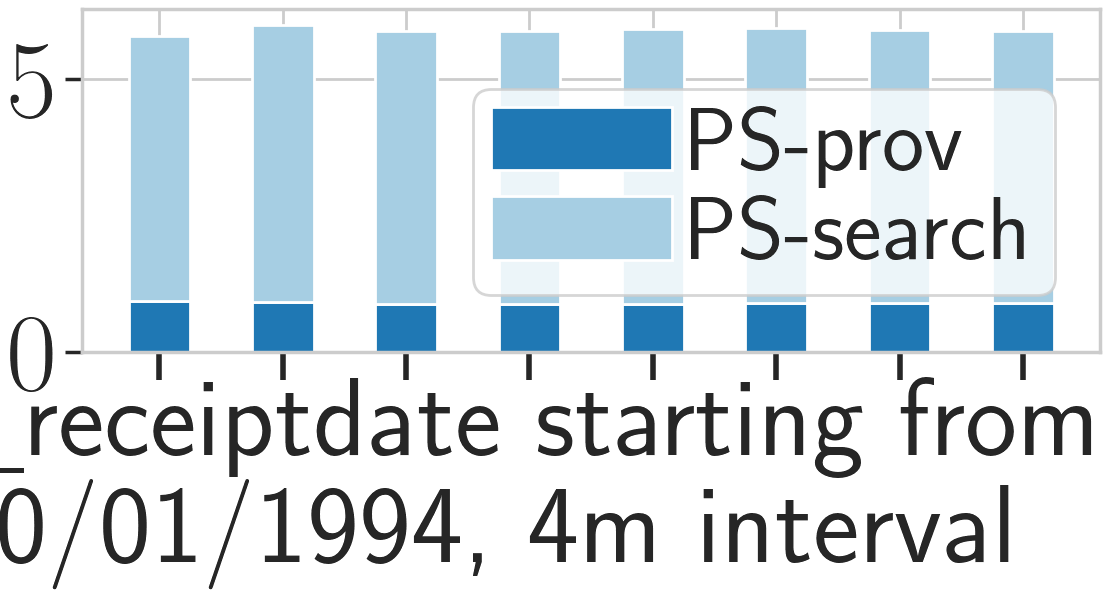
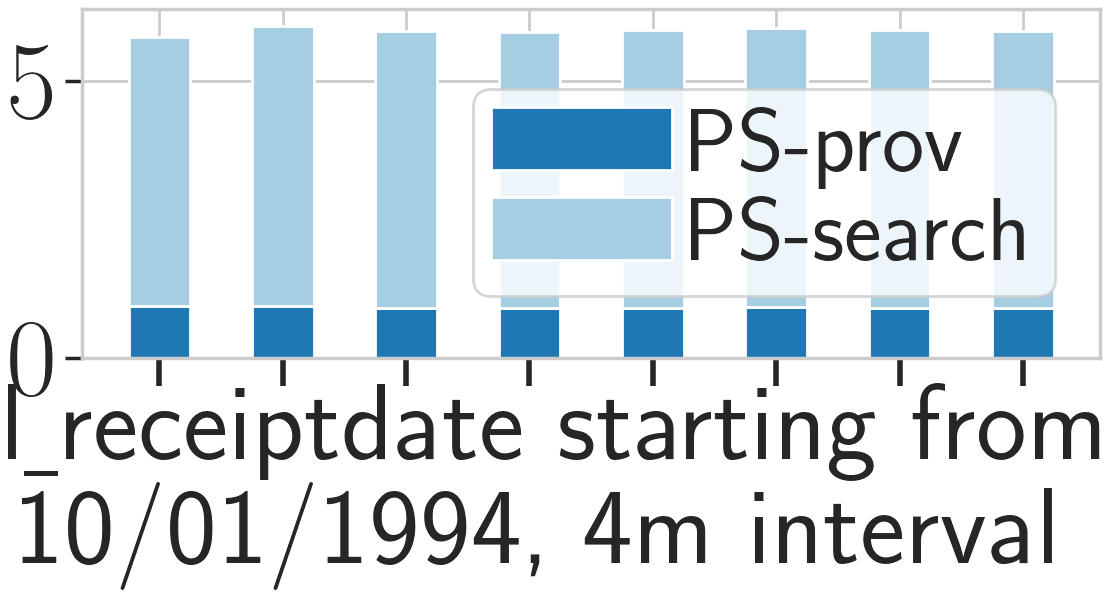
TPCH 100M fix figs

diff --git a/Experiment/TPCH/100M/query_selectivity2/q12_refine5/fig.py b/Experiment/TPCH/100M/query_selectivity2/q12_refine5/fig.py
@@ -85,8 +85,8 @@ def run(query, size, constraint):
     plt.xticks(np.arange(0, 8), x_list, rotation=0, fontsize=80, weight='bold')
     plt.yticks(fontsize=80, weight='bold')
 
-    plt.xlabel(r'l\underline{ }receiptdate starting from \\10/01/1994, 4m interval',
-               fontsize=80, weight='bold', labelpad=-5).set_position((0.44, -0.1))
+    plt.xlabel(r'l\underline{ }receiptdate starting from \\$~~$10/01/1994, 4m interval',
+               fontsize=78, weight='bold', labelpad=-5).set_position((0.47, -0.1))
 
     plt.tight_layout()
     # plt.legend(loc='upper right', bbox_to_anchor=(1.03, 1.05))

diff --git a/Experiment/TPCH/100M/query_selectivity2/q3_refine2/fig.py b/Experiment/TPCH/100M/query_selectivity2/q3_refine2/fig.py
@@ -87,7 +87,7 @@ def run(query, size, constraint):
     plt.ylim(1)
 
     plt.xlabel(r'o\underline{ }orderdate starting from \\$~~$08/28/1994, 2m interval',
-               fontsize=80, weight='bold', labelpad=-5).set_position((0.44, -0.1))
+               fontsize=80, weight='bold', labelpad=-5).set_position((0.42, -0.1))
     plt.yscale('log')
     plt.tight_layout()
     plt.legend(loc='upper right', bbox_to_anchor=(1.04, 0.9), fontsize=60,
